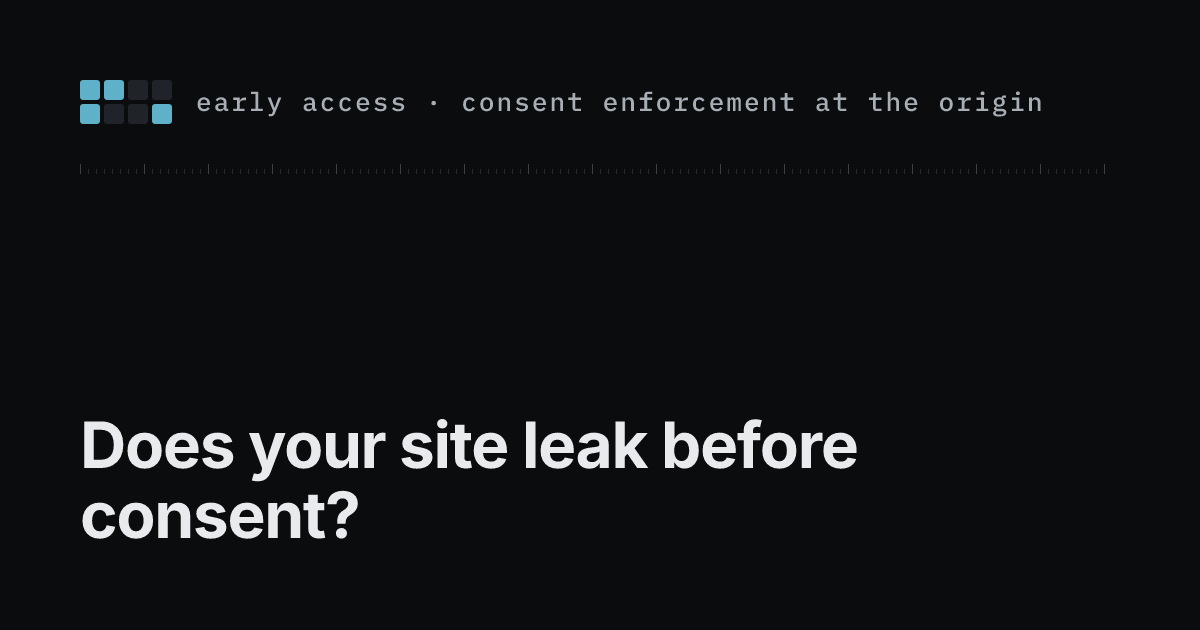
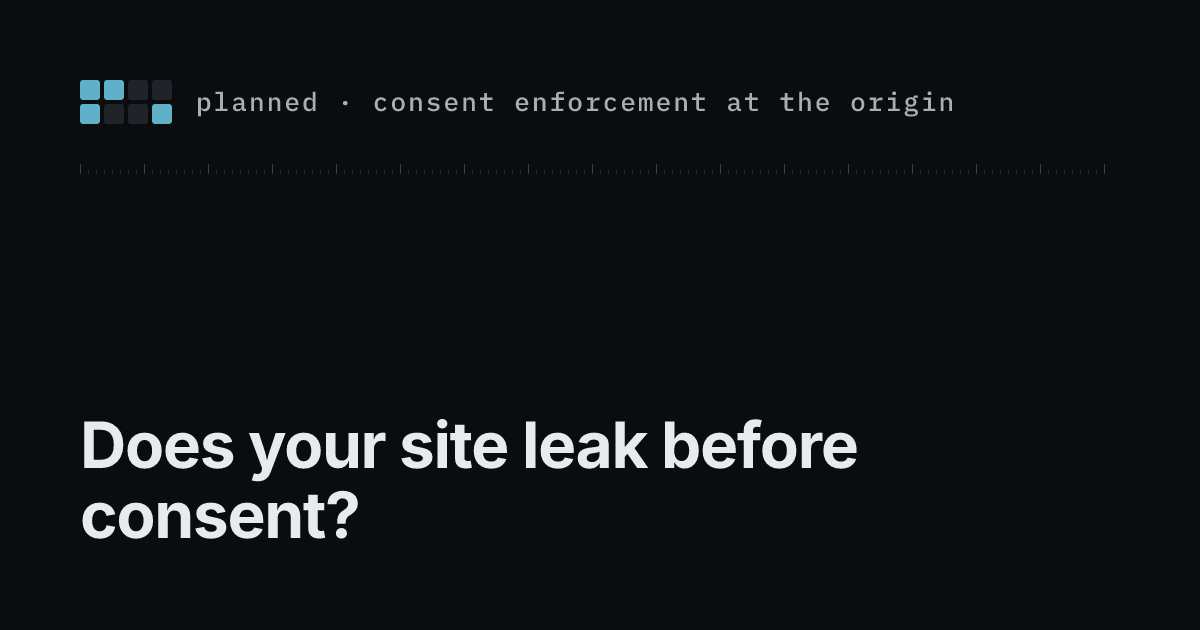
docs(website): review fixes: SBOM/VEX from 2.6.0 on, no early-access wording, pricing title
The SBOM and VEX lines say every release from 2.6.0 on carries them.
The planned-pack forms and pages say we tell you when a pack ships
instead of offering early access. Pricing title and the tier sentence
are reworded, and the support lede names mod_pagespeed and its rule
packs.

Changed region(s): [[0.1542, 0.1508, 0.8633, 0.181]]

diff --git a/website/src/data/faq-support.ts b/website/src/data/faq-support.ts
@@ -28,7 +28,7 @@ export const faqSupport: FaqEntry[] = [
   },
   {
     q: 'How do security updates reach me?',
-    a: `Everyone gets security fixes at the same time, as regular releases through the channel they installed from, listed under Security in the ${link('/docs/release-notes/', 'release notes')}. Subscribers get advance notice of a planned security release: the date, the severity, the affected versions and the impact class. When a vulnerability is already public or being exploited, the notice goes out with the release. Priority and Enterprise subscribers also get vulnerability notifications timed to the EU Cyber Resilience Act reporting windows. Each GitHub release carries its SPDX SBOM and VEX document, and both are also in the source tree.`,
+    a: `Everyone gets security fixes at the same time, as regular releases through the channel they installed from, listed under Security in the ${link('/docs/release-notes/', 'release notes')}. Subscribers get advance notice of a planned security release: the date, the severity, the affected versions and the impact class. When a vulnerability is already public or being exploited, the notice goes out with the release. Priority and Enterprise subscribers also get vulnerability notifications timed to the EU Cyber Resilience Act reporting windows. Every release from 2.6.0 on carries its SPDX SBOM and VEX document, and both are also in the source tree.`,
   },
   {
     q: 'What counts as a production server?',
@@ -36,7 +36,7 @@ export const faqSupport: FaqEntry[] = [
   },
   {
     q: 'What is signed today?',
-    a: `The apt and yum repositories are GPG-signed with the repository signing key. From 2.5.0 on, each mod_pagespeed GitHub release carries one signature, SHA256SUMS.asc, made with a separate release signing key over the SHA256SUMS file that lists every release file; the release files carry no per-file .asc signatures. The Windows installer is Authenticode-signed by We-Amp B.V. The optimizer worker's release assets on GitHub carry no signature; every one is listed in SHA256SUMS. The container images are cosign-signed and carry an SBOM attestation and build provenance. Each GitHub release carries its SPDX SBOM and VEX document, and both are also in the source tree. Everything is the same software under the ${SOURCE_PUBLICATION.license}. See ${link('#hardened-builds', 'signed packages and images')}.`,
+    a: `The apt and yum repositories are GPG-signed with the repository signing key. From 2.5.0 on, each mod_pagespeed GitHub release carries one signature, SHA256SUMS.asc, made with a separate release signing key over the SHA256SUMS file that lists every release file; the release files carry no per-file .asc signatures. The Windows installer is Authenticode-signed by We-Amp B.V. The optimizer worker's release assets on GitHub carry no signature; every one is listed in SHA256SUMS. The container images are cosign-signed and carry an SBOM attestation and build provenance. Every release from 2.6.0 on carries its SPDX SBOM and VEX document, and both are also in the source tree. Everything is the same software under the ${SOURCE_PUBLICATION.license}. See ${link('#hardened-builds', 'signed packages and images')}.`,
   },
   {
     q: 'Can I verify the standard packages without a subscription?',

diff --git a/website/tests/platform.spec.ts b/website/tests/platform.spec.ts
@@ -4,7 +4,7 @@
 import { test, expect } from '@playwright/test';
 import { stubUmami, trackedEvents } from './helpers/umami';
 
-// The early-access pages: /platform/ carries one interest form per direction
+// The planned-pack pages: /platform/ carries one interest form per direction
 // (the `wedge` field), the two sub-pages one form each. Every form posts to
 // the shared capture endpoint with topic "platform" and the wedge as a
 // structured field, and fires umami <wedge> plus lead_submit on a successful
@@ -20,7 +20,7 @@ const HUB_WEDGES = [
   'request-a-pack',
 ];
 
-test.describe('Transform packs early access', () => {
+test.describe('Transform packs interest forms', () => {
   test('/platform/ carries one form per direction and the status line', async ({ page }) => {
     await page.goto('/platform/');
     await expect(page.locator('h1')).toHaveText('One interceptor, many packs');

diff --git a/website/tests/support.spec.ts b/website/tests/support.spec.ts
@@ -84,7 +84,9 @@ test.describe('Support page', () => {
     await expect(section).toContainText('SPDX');
     await expect(section).toContainText('cosign');
     await expect(section).toContainText('SBOM and VEX');
-    await expect(section).toContainText('each GitHub release carries the SBOM and VEX');
+    await expect(section).toContainText(
+      'Every release from 2.6.0 on carries its SPDX SBOM and VEX',
+    );
     await expect(page.locator('main')).not.toContainText('can ask us to send the copy');
     await expect(section).not.toContainText('custom build targets');
     // Security fixes reach everyone at once; no private repository is offered.

diff --git a/website/tests/pricing.spec.ts b/website/tests/pricing.spec.ts
@@ -126,7 +126,7 @@ test.describe('Pricing page', () => {
     const summary = page.locator('#tiers [data-pricing-what]');
     await expect(summary).toContainText('What we sell is support:');
     await expect(summary).toContainText(
-      'None of the tiers changes what the software does or adds software of its own.',
+      'No tier changes the software or comes with extra software.',
     );
     await expect(summary).toContainText('The rest of what we sell is expertise');
     expect(await top('#tiers [data-pricing-what]')).toBeGreaterThan(cardsBottom);

diff --git a/website/src/lib/scan/risk-rows.ts b/website/src/lib/scan/risk-rows.ts
@@ -342,7 +342,7 @@ function buildingFor(
             building: [RX_BUILDING],
             link: {
               href: '/platform/#pack-response-firewall',
-              label: 'Transform packs: early access →',
+              label: 'Transform packs: tell me when it ships →',
               event: 'airead-cta-response-firewall',
             },
           }
